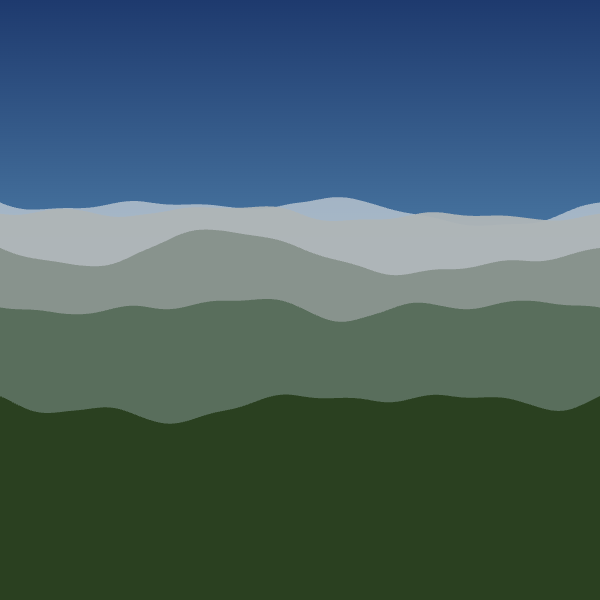
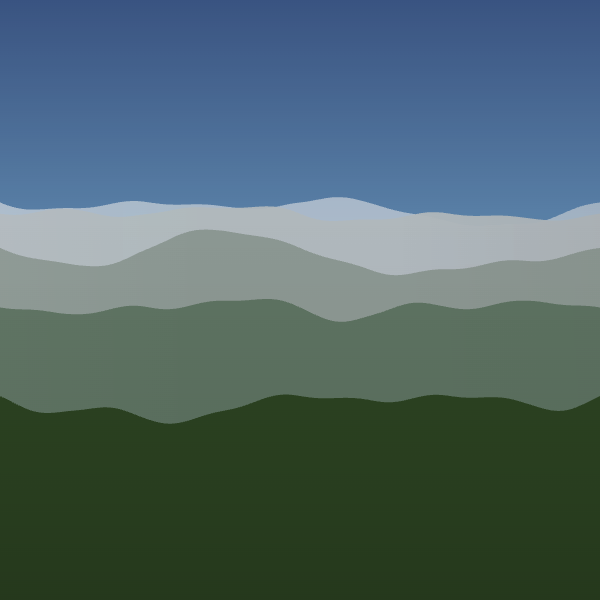
feat(profile): inter-ridge haze and directional lighting
Add atmospheric haze overlays between mountain ridges that accumulate
on distant ridges, creating natural depth separation. Add clipped
vertical volume gradient (dark bases) and horizontal directional light
(sun from left) for ridge dimensionality.

Changed region(s): [[0.0, 0.0, 1.0, 0.18]]

diff --git a/src/layers/profile.ts b/src/layers/profile.ts
@@ -5,7 +5,7 @@ import type {
   ValidationError,
 } from "@genart-dev/core";
 import { createFractalNoise } from "../shared/noise.js";
-import { lerpColor, lighten } from "../shared/color-utils.js";
+import { lerpColor, lighten, parseHex, toHex } from "../shared/color-utils.js";
 import { applyDepthEasing } from "../shared/depth.js";
 import type { DepthEasing } from "../shared/depth.js";
 import {
@@ -121,18 +121,30 @@ export const profileLayerType: LayerTypeDefinition = {
     // Resolve depth lane once for all ridges
     const laneConfig = resolveDepthLane(p.depthLane);
 
+    // Haze color for inter-ridge atmospheric effect
+    const hazeHex = p.atmosphericMode === "ink-wash" ? "#E8DDD0" : "#B8C8D8";
+    const [hazeR, hazeG, hazeB] = parseHex(hazeHex);
+
     for (let i = 0; i < ridgeCount; i++) {
       // t=0 for farthest ridge, t=1 for nearest
       const t = ridgeCount === 1 ? 1 : i / (ridgeCount - 1);
       const easedT = applyDepthEasing(t, p.depthEasing);
+
+      // --- Inter-ridge haze ---
+      // Before drawing each ridge (except the first), overlay a thin haze
+      // layer over everything already drawn. This accumulates on far ridges,
+      // creating natural atmospheric separation (refs #6 Appalachian, #8 blue mountains).
+      if (i > 0 && p.atmosphericMode !== "none") {
+        const hazeAlpha = 0.03 + (1 - t) * 0.05;
+        ctx.fillStyle = `rgba(${hazeR},${hazeG},${hazeB},${hazeAlpha})`;
+        ctx.fillRect(bx, by, width, height);
+      }
 
       // Per-ridge noise with unique seed offset
       const noise = createFractalNoise(p.seed + i * 7919, octaves, 2.0, 0.5);
 
       // Baseline Y: far ridges (t=0) sit high on screen (near horizon),
       // near ridges (t=1) sit lower (closer to bottom edge).
-      // elevationMin = baseline Y-fraction for far ridges (high on screen)
-      // elevationMax = baseline Y-fraction for near ridges (low on screen)
       const baselineNorm = p.elevationMin + (p.elevationMax - p.elevationMin) * easedT;
       const baselineY = by + height * baselineNorm;
 
@@ -148,45 +160,42 @@ export const profileLayerType: LayerTypeDefinition = {
       let ridgeColor: string;
 
       if (p.atmosphericMode !== "none") {
-        // t=0 (far ridge) → depth 0 → maximum atmospheric effect
-        // t=1 (near ridge) → depth 1 → no atmospheric effect (original colors)
         const bgColor = applyAtmosphericDepth(p.backgroundRidgeColor, t, p.atmosphericMode);
         const fgColor = applyAtmosphericDepth(p.foregroundColor, t, p.atmosphericMode);
         ridgeColor = lerpColor(bgColor, fgColor, t);
       } else {
-        // Even without atmospheric mode, interpolate from backgroundRidgeColor
-        // (far) to foregroundColor (near) with additional lightening on far
-        // ridges for a basic aerial perspective hint.
         const baseLerp = lerpColor(p.backgroundRidgeColor, p.foregroundColor, t);
         const lightenAmount = (1 - t) * p.depthValueShift * 0.5;
         ridgeColor = lighten(baseLerp, lightenAmount);
       }
 
-      // Generate noise profile and draw filled path
-      ctx.beginPath();
-
+      // --- Build noise profile path (used for fill + lighting clip) ---
       const step = Math.max(1, Math.floor(width / 300));
+      const profilePoints: Array<{ px: number; py: number }> = [];
+
       for (let px = 0; px <= width; px += step) {
         const nx = (px / width) * p.noiseScale;
         let noiseVal = noise(nx, i * 10);
 
-        // Jaggedness: add high-frequency overlay
         if (p.jaggedness > 0.3) {
           const hfNoise = createFractalNoise(p.seed + i * 3571 + 999, 2, 4.0, 0.3);
           noiseVal += hfNoise(nx * 3, i * 10) * p.jaggedness * 0.3;
           noiseVal = Math.min(1, Math.max(0, noiseVal));
         }
 
-        const profileY = baselineY - noiseVal * elevRange;
-
-        if (px === 0) {
-          ctx.moveTo(bx + px, profileY);
-        } else {
-          ctx.lineTo(bx + px, profileY);
-        }
+        profilePoints.push({
+          px: bx + px,
+          py: baselineY - noiseVal * elevRange,
+        });
       }
 
-      // Close path to bottom
+      // Draw filled ridge path
+      ctx.beginPath();
+      for (let j = 0; j < profilePoints.length; j++) {
+        const pt = profilePoints[j]!;
+        if (j === 0) ctx.moveTo(pt.px, pt.py);
+        else ctx.lineTo(pt.px, pt.py);
+      }
       ctx.lineTo(bx + width, by + height);
       ctx.lineTo(bx, by + height);
       ctx.closePath();
@@ -198,6 +207,55 @@ export const profileLayerType: LayerTypeDefinition = {
       ctx.fillStyle = ridgeColor;
       ctx.fill();
       ctx.globalAlpha = 1;
+
+      // --- Directional light gradient ---
+      // Apply a subtle left-to-right gradient for consistent sun direction,
+      // plus a vertical gradient for ridge volume (peaks lighter, bases darker).
+      // Only when multiple ridges and atmospheric mode is active.
+      if (ridgeCount > 1 && p.atmosphericMode !== "none") {
+        ctx.save();
+
+        // Re-build the ridge clip path
+        ctx.beginPath();
+        for (let j = 0; j < profilePoints.length; j++) {
+          const pt = profilePoints[j]!;
+          if (j === 0) ctx.moveTo(pt.px, pt.py);
+          else ctx.lineTo(pt.px, pt.py);
+        }
+        ctx.lineTo(bx + width, by + height);
+        ctx.lineTo(bx, by + height);
+        ctx.closePath();
+        ctx.clip();
+
+        // Find the topmost point of this ridge for gradient anchoring
+        let minY = by + height;
+        for (const pt of profilePoints) {
+          if (pt.py < minY) minY = pt.py;
+        }
+
+        // Vertical volume gradient: transparent at peaks, darker at base
+        const volGrad = ctx.createLinearGradient(0, minY, 0, by + height);
+        volGrad.addColorStop(0, "rgba(0,0,0,0)");
+        volGrad.addColorStop(0.5, `rgba(0,0,0,${0.02 + t * 0.03})`);
+        volGrad.addColorStop(1, `rgba(0,0,0,${0.06 + t * 0.06})`);
+        ctx.fillStyle = volGrad;
+        ctx.fillRect(bx, by, width, height);
+
+        // Horizontal directional light: sun from left, shadow on right
+        // Strength decreases for nearer ridges (foreground has its own colors)
+        const lightStrength = (1 - t) * 0.08;
+        if (lightStrength > 0.005) {
+          const dirGrad = ctx.createLinearGradient(bx, 0, bx + width, 0);
+          dirGrad.addColorStop(0, `rgba(255,255,255,${lightStrength})`);
+          dirGrad.addColorStop(0.35, "rgba(255,255,255,0)");
+          dirGrad.addColorStop(0.65, "rgba(0,0,0,0)");
+          dirGrad.addColorStop(1, `rgba(0,0,0,${lightStrength * 0.7})`);
+          ctx.fillStyle = dirGrad;
+          ctx.fillRect(bx, by, width, height);
+        }
+
+        ctx.restore();
+      }
     }
   },
 

diff --git a/test/profile.test.ts b/test/profile.test.ts
@@ -8,7 +8,15 @@ function createMockCtx() {
     lineTo: vi.fn(),
     closePath: vi.fn(),
     fill: vi.fn(),
+    fillRect: vi.fn(),
     fillStyle: "",
+    globalAlpha: 1,
+    save: vi.fn(),
+    restore: vi.fn(),
+    clip: vi.fn(),
+    createLinearGradient: vi.fn(() => ({
+      addColorStop: vi.fn(),
+    })),
   } as unknown as CanvasRenderingContext2D;
 }
 
@@ -114,9 +122,12 @@ describe("terrain:profile", () => {
     profileLayerType.render(propsNone, ctx1, BOUNDS, {} as any);
     profileLayerType.render(propsDefault, ctx2, BOUNDS, {} as any);
 
-    // Both should produce same number of fills
+    // Both should produce same number of ridge fills (no haze/lighting overlays with "none")
     expect(ctx1.fill).toHaveBeenCalledTimes(2);
     expect(ctx2.fill).toHaveBeenCalledTimes(2);
+    // No haze or lighting calls
+    expect(ctx1.fillRect).not.toHaveBeenCalled();
+    expect(ctx1.save).not.toHaveBeenCalled();
   });
 
   it("render with atmosphericMode='western' still produces valid output", () => {
@@ -129,7 +140,15 @@ describe("terrain:profile", () => {
       depthLane: "background",
     };
     profileLayerType.render(props, ctx, BOUNDS, {} as any);
-    expect(ctx.fill).toHaveBeenCalledTimes(3);
+    // 3 ridge fills + lighting overlay fills (fillRect for haze + gradient fills inside clip)
+    expect(ctx.fill).toHaveBeenCalled();
+    expect(ctx.beginPath).toHaveBeenCalled();
+    // Haze overlays use fillRect between ridges
+    expect(ctx.fillRect).toHaveBeenCalled();
+    // Lighting uses save/clip/restore
+    expect(ctx.save).toHaveBeenCalled();
+    expect(ctx.clip).toHaveBeenCalled();
+    expect(ctx.restore).toHaveBeenCalled();
   });
 
   it("render with atmosphericMode='ink-wash' still produces valid output", () => {
@@ -142,6 +161,8 @@ describe("terrain:profile", () => {
       depthLane: "far-background",
     };
     profileLayerType.render(props, ctx, BOUNDS, {} as any);
-    expect(ctx.fill).toHaveBeenCalledTimes(2);
+    expect(ctx.fill).toHaveBeenCalled();
+    expect(ctx.fillRect).toHaveBeenCalled();
+    expect(ctx.save).toHaveBeenCalled();
   });
 });
